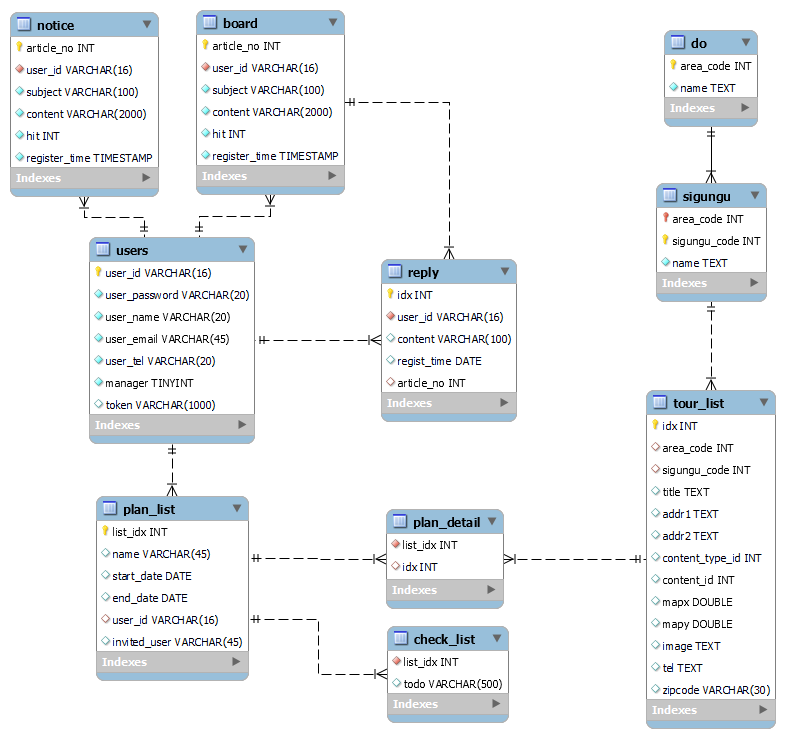
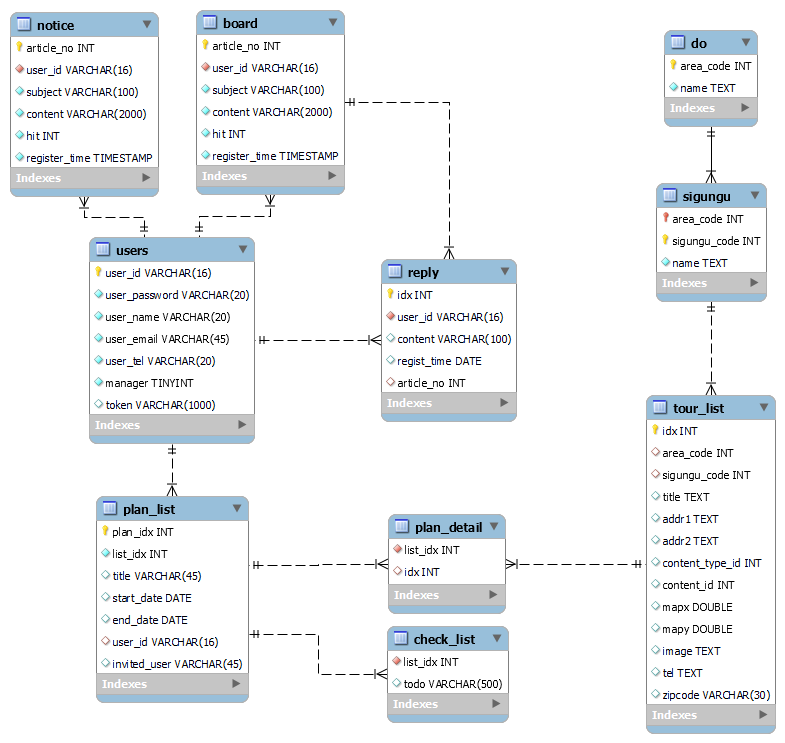
update: DB plan_list 테이블 컬럼 추가

diff --git a/Front-End/src/components/plan/PlanView.vue b/Front-End/src/components/plan/PlanView.vue
@@ -204,7 +204,10 @@ export default {
     },
     completePlan(choiceList) {
       if (choiceList.length == 0) alert("추천 장소를 선택해주세요.");
-      console.log(choiceList[0]);
+      else {
+        console.log(choiceList[0]);
+        // 데이타 axios
+      }
     },
     zoomIn() {
       this.map.setLevel(this.map.getLevel() - 1);
